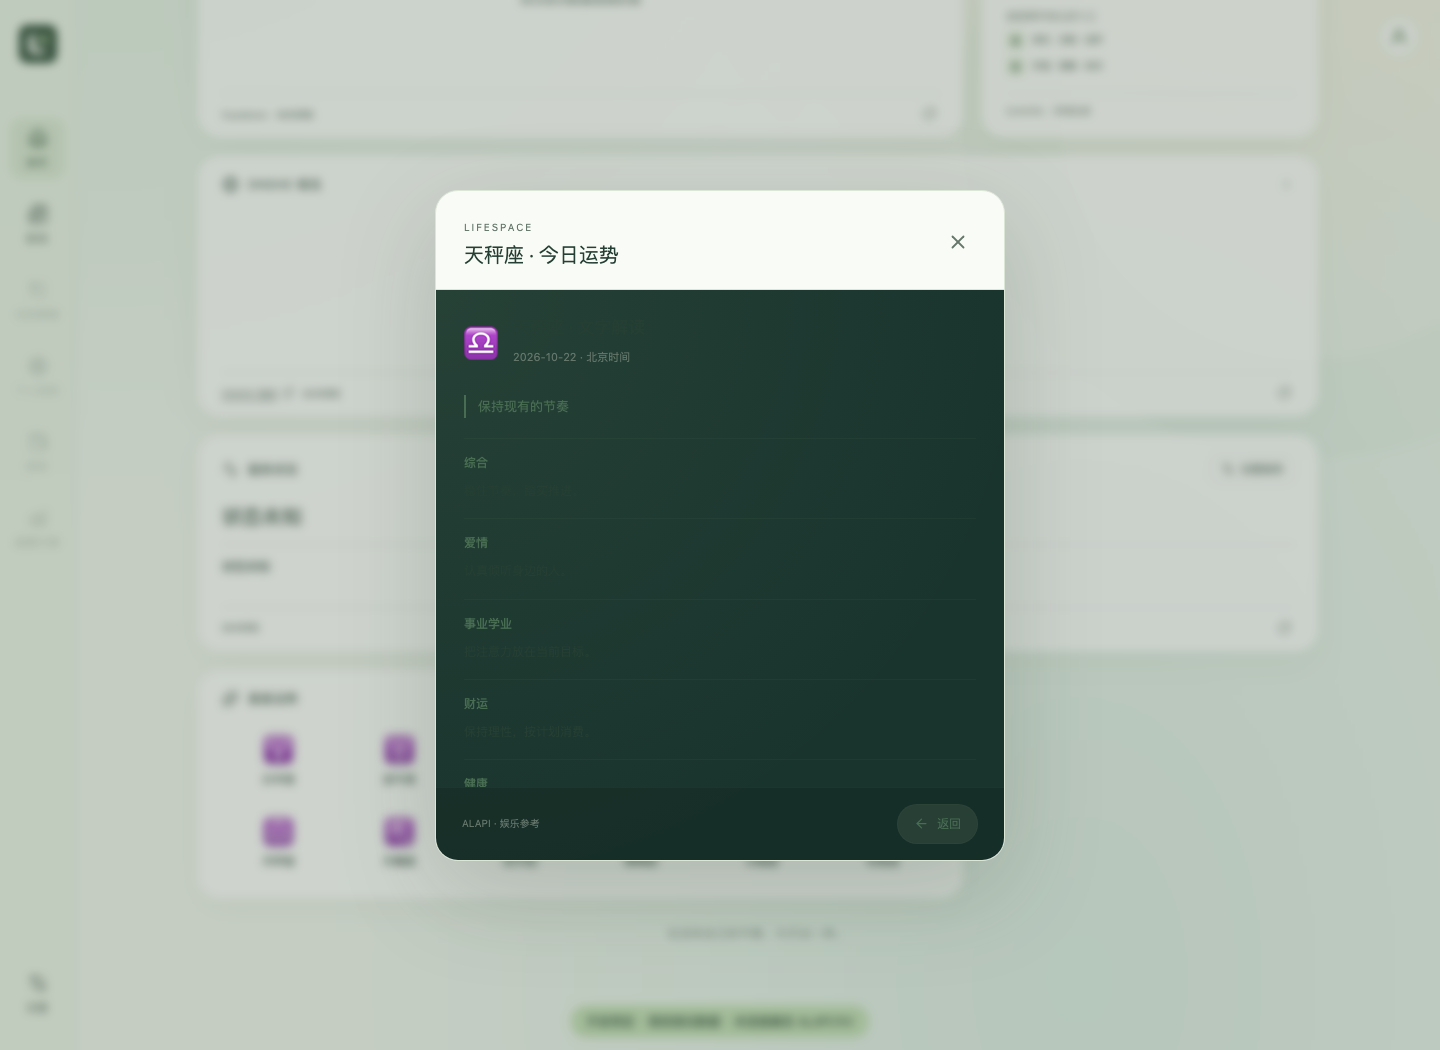
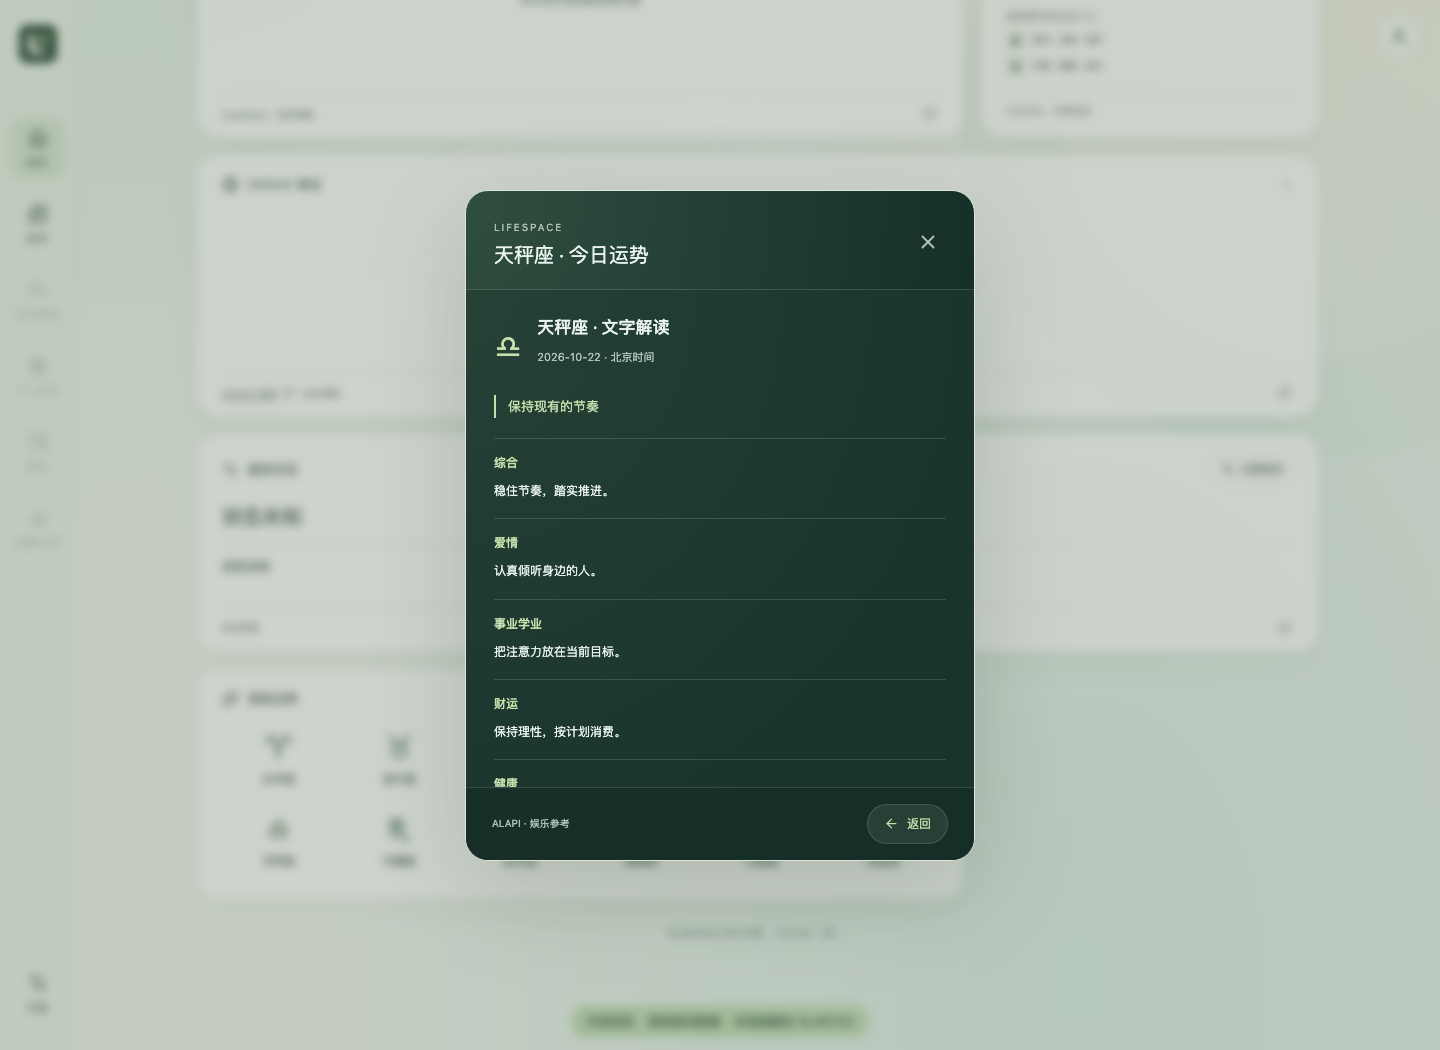
fix: harden horoscope request isolation and mobile layout

Changed region(s): [[0.25, 0.1829, 0.7188, 0.8229], [0.1562, 0.7619, 0.2188, 0.8229], [0.1562, 0.701, 0.2188, 0.7314]]

diff --git a/worker/horoscope.ts b/worker/horoscope.ts
@@ -5,8 +5,9 @@ import { BodyLimitError, readBoundedBody } from './read-body'
 
 // 仅包含外部 binding 的必要操作；缺失配置时保持正式服务的未配置状态。
 export type HoroscopeEnv = { ALAPI_TOKEN?: string; HOROSCOPE_KV?: Pick<KVNamespace, 'get' | 'put'> }
-type State = { pending: Map<string, Promise<HoroscopeResult>>; nextRead: number; blocked?: { until: number; error: ApiError } }
-// 实例内的有限合并与退避不承担跨实例锁的职责，不保存账户或凭据。
+type Flight = { until: number; result?: HoroscopeResult; error?: { code: string; message: string; status: ApiError['status'] } }
+type State = { pending: Map<string, Flight>; nextRead: number; blocked?: { until: number; error: ApiError } }
+// 只共享普通数据与时间标记，不跨请求保存 Promise、Response、流、账户或凭据。
 const states = new WeakMap<object, State>()
 const failure = (code: string, message: string, status: 429 | 502 | 503 | 504 = 502) => new ApiError(code, message, status)
 const notUpdated = () => failure('HOROSCOPE_NOT_UPDATED', '今日运势暂未更新', 503)
@@ -35,7 +36,9 @@ async function readAlapi(token: string, sign: ZodiacSign, date: string): Promise
     const value = envelope.data
     if (!value.success || value.code !== 200) {
       if (value.code === 10010) throw failure('HOROSCOPE_QUOTA_EXHAUSTED', '今日运势接口额度已用完，请明日再试', 503)
-      if ([10001, 10002, 10003].includes(value.code)) throw failure('HOROSCOPE_TOKEN_INVALID', '运势数据源授权失效，请检查服务端配置')
+      if ([10001, 10002, 10003, 10004, 10008, 10009].includes(value.code)) throw failure('HOROSCOPE_TOKEN_INVALID', '运势数据源授权失效，请检查服务端配置')
+      if ([10006, 10007].includes(value.code)) throw failure('HOROSCOPE_ACCESS_DENIED', '运势数据源访问受限，请检查服务端配置')
+      if (value.code === 10005) throw failure('HOROSCOPE_QUOTA_UNAVAILABLE', '运势数据源额度不足，请稍后再试', 503)
       if (value.code === 429) throw failure('HOROSCOPE_RATE_LIMITED', '运势读取过于频繁，请稍后重新读取', 429)
       throw failure('HOROSCOPE_BUSINESS_ERROR', '运势数据源请求失败，请稍后重新读取')
     }
@@ -73,10 +76,20 @@ export async function readHoroscope(env: HoroscopeEnv, params: URLSearchParams):
   const key = `horoscope:v1:alapi:Asia-Shanghai:${date}:${sign}`
   let state = states.get(kv)
   if (!state) { state = { pending: new Map(), nextRead: 0 }; states.set(kv, state) }
+  for (const [pendingKey, flight] of state.pending) if (flight.until <= Date.now()) state.pending.delete(pendingKey)
   const existing = state.pending.get(key)
-  if (existing) return existing
+  if (existing) {
+    // 等待属于当前请求；首请求取消或耗时较长时有限退出，由使用者重新读取。
+    await new Promise<void>(resolve => setTimeout(resolve, 1100))
+    if (beijingDate(Date.now()) !== date) throw notUpdated()
+    if (existing.result && isCurrentHoroscope(existing.result, sign, Date.now())) return existing.result
+    if (existing.error) throw new ApiError(existing.error.code, existing.error.message, existing.error.status)
+    throw failure('HOROSCOPE_RATE_LIMITED', '运势正在读取，请稍后重新读取', 429)
+  }
   const currentState = state
-  const pending = (async (): Promise<HoroscopeResult> => {
+  const flight: Flight = { until: Date.now() + 12000 }
+  currentState.pending.set(key, flight)
+  const read = async (): Promise<HoroscopeResult> => {
     let cached: unknown
     try {
       const stored = await kv.get(key)
@@ -106,7 +119,13 @@ export async function readHoroscope(env: HoroscopeEnv, params: URLSearchParams):
     }
     if (!isCurrentHoroscope(data, sign, Date.now())) throw notUpdated()
     return { ...data, cacheHit: false, ...(warning ? { warning } : {}) }
-  })()
-  currentState.pending.set(key, pending)
-  try { return await pending } finally { currentState.pending.delete(key) }
+  }
+  try {
+    const result = await read()
+    flight.result = result
+    return result
+  } catch (error) {
+    if (error instanceof ApiError) flight.error = { code: error.code, message: error.message, status: error.status }
+    throw error
+  } finally { if (currentState.pending.get(key) === flight) currentState.pending.delete(key) }
 }

diff --git a/tests/api/horoscope.test.ts b/tests/api/horoscope.test.ts
@@ -97,6 +97,13 @@ test.each([
   ['HTTP 限流', () => new Response('private', { status: 429 }), 'HOROSCOPE_RATE_LIMITED', 429],
   ['每日耗尽', () => Response.json({ success: false, code: 10010, message: 'private' }), 'HOROSCOPE_QUOTA_EXHAUSTED', 503],
   ['业务鉴权', () => Response.json({ success: false, code: 10001, message: 'private' }), 'HOROSCOPE_TOKEN_INVALID', 502],
+  ['业务错误 10002', () => Response.json({ success: false, code: 10002, message: 'private' }), 'HOROSCOPE_TOKEN_INVALID', 502],
+  ['业务错误 10004', () => Response.json({ success: false, code: 10004, message: 'private' }), 'HOROSCOPE_TOKEN_INVALID', 502],
+  ['业务错误 10008', () => Response.json({ success: false, code: 10008, message: 'private' }), 'HOROSCOPE_TOKEN_INVALID', 502],
+  ['业务错误 10009', () => Response.json({ success: false, code: 10009, message: 'private' }), 'HOROSCOPE_TOKEN_INVALID', 502],
+  ['业务错误 10006', () => Response.json({ success: false, code: 10006, message: 'private' }), 'HOROSCOPE_ACCESS_DENIED', 502],
+  ['业务错误 10007', () => Response.json({ success: false, code: 10007, message: 'private' }), 'HOROSCOPE_ACCESS_DENIED', 502],
+  ['业务错误 10005', () => Response.json({ success: false, code: 10005, message: 'private' }), 'HOROSCOPE_QUOTA_UNAVAILABLE', 503],
   ['HTTP 200 业务失败', () => Response.json({ success: false, code: 12345, message: 'private' }), 'HOROSCOPE_BUSINESS_ERROR', 502],
   ['超时', () => { throw new DOMException('private', 'TimeoutError') }, 'HOROSCOPE_TIMEOUT', 504],
   ['空内容', () => Response.json({ success: true, code: 200, data: { day: { date: '2026-10-22' } } }), 'HOROSCOPE_INVALID_RESPONSE', 502],
@@ -187,6 +194,7 @@ test('同实例在途读取合并，跨实例负缓存允许少量重复且同 k
   await vi.waitFor(() => expect(upstreamCalls).toBe(1))
   release()
   expect((await first).status).toBe(200)
+  await vi.advanceTimersByTimeAsync(1100)
   expect((await second).status).toBe(200)
   expect(upstreamCalls).toBe(1)
   let writes = 0
@@ -194,4 +202,30 @@ test('同实例在途读取合并，跨实例负缓存允许少量重复且同 k
   const other = await Promise.all([request(namespace()), request(namespace())])
   expect(other.map(response => response.status)).toEqual([200, 200])
   expect(upstreamCalls).toBe(3)
+})
+
+test('首请求尚未完成时，合并等待有界退出，不借用其 I/O Promise', async () => {
+  const { default: raw } = await import('../../worker/index')
+  const { horoscopeTestToken, horoscopeTestUser } = await import('../fixtures/horoscope-worker')
+  const s = setup()
+  let calls = 0
+  let release: () => void = () => {}
+  const gate = new Promise<void>(resolve => { release = resolve })
+  vi.stubGlobal('fetch', async (input: string | URL | Request) => {
+    if (String(input).includes('/auth/v1/user')) return Response.json(horoscopeTestUser)
+    calls++; await gate
+    return Response.json(alapiSuccess())
+  })
+  const env = { ...s.env, SUPABASE_URL: 'https://auth-test.supabase.co', SUPABASE_PUBLISHABLE_KEY: 'sb_publishable_test-only', AUTH_ALLOWED_EMAILS: horoscopeTestUser.email }
+  const request = () => raw.request('/api/horoscope?sign=libra', { headers: { Authorization: `Bearer ${horoscopeTestToken}` } }, env)
+  const first = request()
+  await vi.waitFor(() => expect(calls).toBe(1))
+  const next = request()
+  await vi.advanceTimersByTimeAsync(1100)
+  const busy = await next
+  expect(busy.status).toBe(429)
+  expect(await busy.json()).toMatchObject({ error: { code: 'HOROSCOPE_RATE_LIMITED' } })
+  expect(calls).toBe(1)
+  release()
+  expect((await first).status).toBe(200)
 })

diff --git a/src/home/horoscope.css b/src/home/horoscope.css
@@ -4,8 +4,9 @@
 .zodiac-grid button>span{font-family:'Apple Symbols','Segoe UI Symbol',serif;font-size:29px;color:var(--accent);line-height:1}
 .zodiac-grid button:hover,.zodiac-grid button:focus-visible{background:rgba(196,214,178,.09);border-color:var(--line)}
 .lifespace-app .modal.horoscope-modal{--ink:#eaf3ee;--quiet:#b2c4ba;--accent:#c5dfad;--line:rgba(216,239,223,.16);color:var(--ink);width:min(510px,calc(100vw - 28px));padding:0;overflow:hidden;background:radial-gradient(ellipse at 0 0,#304e40,transparent 75%),#142e28}
-.horoscope-modal>header{padding:22px 26px;border-bottom:1px solid var(--line);margin:0}
-.fortune-stage{perspective:1300px;height:min(570px,calc(100dvh - 160px));min-height:260px}
+.horoscope-modal[open]{display:flex;flex-direction:column}
+.horoscope-modal>header{flex-shrink:0;padding:22px 26px;border-bottom:1px solid var(--line);margin:0}
+.fortune-stage{perspective:1300px;height:min(570px,calc(100dvh - 160px));min-height:0;flex-shrink:1}
 .fortune-turn{height:100%;position:relative;transform-style:preserve-3d;transition:transform .55s cubic-bezier(.22,.7,.3,1)}
 .fortune-stage.is-back .fortune-turn{transform:rotateY(180deg)}
 .fortune-face{position:absolute;inset:0;display:flex;flex-direction:column;backface-visibility:hidden;background:radial-gradient(ellipse at 0 0,rgba(192,217,160,.08),transparent 75%),#19342d}
@@ -40,6 +41,7 @@
 .fortune-text p,.fortune-almanac p{font-size:12px;line-height:1.95;margin:0;white-space:pre-wrap}
 .fortune-almanac{margin-top:20px;padding-top:15px;border-top:1px solid var(--line)}
 .fortune-almanac b{color:var(--accent);font-weight:500;padding-right:14px}
-.horoscope-state{min-height:280px;display:flex;flex-direction:column;align-items:center;justify-content:center;gap:16px;padding:25px;font-size:13px;color:var(--quiet)}
-@media(max-width:680px){.panel-horoscope{grid-column:1/-1}.zodiac-grid{grid-template-columns:repeat(4,minmax(0,1fr))}.fortune-scroll{padding:22px}.fortune-footer{padding:14px 20px}.fortune-scores{gap:12px}.horoscope-modal>header{padding:18px 22px}}
+.horoscope-state{height:min(280px,calc(100dvh - 160px));min-height:0;overflow-y:auto;flex-shrink:1;display:flex;flex-direction:column;align-items:center;justify-content:center;gap:16px;padding:25px;font-size:13px;color:var(--quiet)}
+@media(max-width:680px){.panel-horoscope{grid-column:1/-1}.zodiac-grid{grid-template-columns:repeat(4,minmax(0,1fr))}.fortune-scroll{padding:22px}.fortune-footer{padding:14px 20px}.fortune-scores{gap:12px}.horoscope-modal[open]{display:flex;flex-direction:column}
+.horoscope-modal>header{flex-shrink:0;padding:18px 22px}}
 @media(prefers-reduced-motion:reduce){.fortune-turn,.fortune-stage.is-back .fortune-turn{transform:none;transition:none}.fortune-back{transform:none}.fortune-face[aria-hidden=true]{visibility:hidden}.zodiac-grid button{transition:none}}

diff --git a/tests/browser/horoscope.test.ts b/tests/browser/horoscope.test.ts
@@ -125,3 +125,22 @@ test('关闭后新星座从正面开始，迟到响应不会覆盖当前选择',
   await page.getByRole('button', { name: '狮子座', exact: true }).click()
   await expect(page.getByRole('button', { name: '查看详情', exact: true })).toBeVisible()
 })
+
+test('横屏短手机窗口的关闭与返回按钮完整可达', async ({ page }) => {
+  await page.clock.install({ time: new Date('2026-10-22T08:00:00Z') })
+  await page.setViewportSize({ width: 667, height: 320 })
+  await page.emulateMedia({ reducedMotion: 'reduce' })
+  await page.route('**/api/horoscope?*', route => route.fulfill({ json: result('libra', '2026-10-22', true) }))
+  await page.goto('/')
+  await page.getByRole('button', { name: '天秤座', exact: true }).click()
+  const frontBounds = await page.getByRole('button', { name: '查看详情', exact: true }).boundingBox()
+  const beforeBounds = await page.getByRole('dialog').boundingBox()
+  expect(frontBounds!.y + frontBounds!.height).toBeLessThanOrEqual(beforeBounds!.y + beforeBounds!.height)
+  await page.getByRole('button', { name: '查看详情', exact: true }).click()
+  const dialog = await page.getByRole('dialog').boundingBox()
+  const back = await page.getByRole('button', { name: '返回', exact: true }).boundingBox()
+  expect(back!.y + back!.height).toBeLessThanOrEqual(dialog!.y + dialog!.height)
+  await expect(page.getByRole('button', { name: '关闭详情', exact: true })).toBeInViewport()
+  await page.getByRole('button', { name: '返回', exact: true }).click()
+  await expect(page.getByRole('button', { name: '查看详情', exact: true })).toBeInViewport()
+})

diff --git a/vite.horoscope-preview.config.ts b/vite.horoscope-preview.config.ts
@@ -23,7 +23,7 @@ export default defineConfig(async () => {
         })
       },
     }],
-    server: { host: '127.0.0.1', port: 5176, strictPort: true, proxy: { '/api/horoscope': worker.url, '/api/auth/': worker.url },
+    server: { watch: { usePolling: true }, host: '127.0.0.1', port: 5176, strictPort: true, proxy: { '/api/horoscope': worker.url, '/api/auth/': worker.url },
       fs: { deny: ['.env', '.env.*', '**/.dev.vars*', '**/.git/**', '**/.cache/**', '**/*.{pem,key}', '**/dist/lifespace/**'] } },
   }
 })

diff --git a/docs/horoscope-development.md b/docs/horoscope-development.md
@@ -9,7 +9,7 @@
 - `GET /api/horoscope?sign=libra` 先执行既有认证和白名单检查，只接受唯一合法 `sign` 参数。
 - ALAPI 成功内容标准化后按 `Asia/Shanghai` 日期与星座存入 KV，绝对期限为次日北京时间零点；不足 60 秒不写入。
 - 缓存、上游、浏览器都校验内容归属与日期。跨日清除旧展示；昨日内容显示“今日运势暂未更新”。
-- 缓存读取失败不回源；写入失败保留本次内容并进入 60 秒退避。实例内合并在途请求、回源间隔至少 1.1 秒；一般上游失败退避 10 秒，日额度耗尽保守退避至下一个北京日期。不承诺跨实例严格限流或仅回源一次。
+- 缓存读取失败不回源；写入失败保留本次内容并进入 60 秒退避。实例内有限等待后复用已完成的普通数据，首请求未完成则返回忙碌状态，不共享在途 I/O Promise；回源间隔至少 1.1 秒；一般上游失败退避 10 秒，日额度耗尽保守退避至下一个北京日期。不承诺跨实例严格限流或仅回源一次。
 - 正常卡片没有刷新按钮，失败状态可以“重新读取”；关闭恢复入口焦点，手机文字滚动，减少动态效果模式关闭旋转。
 
 ## 本地预览
@@ -29,6 +29,29 @@ npx vite --config vite.horoscope-preview.config.ts
 - 接口：`npx vitest run tests/api/horoscope.test.ts`；通过真实应用路由与鉴权，外部 Auth、ALAPI 和 KV 使用替身。
 - 浏览器：`npx playwright test tests/browser/horoscope.test.ts`；包含浏览器→本地 HTTP→真实 Worker 应用路由及鉴权→受控 ALAPI/KV 的链路，重载后核对第二次 KV 读取与一次上游调用。
 - 整体检查使用项目既有密钥扫描、API、安全、类型、构建及浏览器回归。截图见 `docs/evidence/horoscope-dev/`，仅为开发预览。
+
+## 核验结果
+
+2026-10-22，在 `codex/70-horoscope`、Node.js 24.19.0 下完成：
+
+| 检查 | 实际结果 |
+|---|---|
+| `npm run check:secrets` | 历史和当前 Git 文件扫描通过 |
+| `npm run test:secrets` | 1 条通过，验证提交钩子与历史密钥拦截 |
+| `npm run test:api` | 11 个文件、188 条通过，其中运势 34 条 |
+| `npm run test:security:portable` | 1 条通过，包含 5 项构建/运行时/日志/文件隔离检查 |
+| `npm run build` | 类型检查与生产构建通过 |
+| `npm run test:browser` | 144 条通过，其中运势 6 条 |
+
+隔离的 workerd/Miniflare 检查使用生产构建和本地 KV，核对首次回源、实际缓存内容、过期时间与再次命中鉴权；ALAPI 和 Auth 仍为外部替身。浏览器全量首次因脚本固定的本地 Chromium 路径缺失而未能启动；连接已有浏览器缓存后，单独重跑浏览器部分通过。其他已通过项目未重复执行。
+
+## Standards
+
+规范审查发现一项：跨请求共享在途 Promise 可能依赖首请求的 I/O 生命周期。已改为仅共享普通结果与时间标记，每个请求持有自己的有限等待；未完成时返回忙碌，避免跨请求复用 I/O。
+
+## Spec
+
+需求审查发现两项：部分 ALAPI 业务授权错误未分类、短横屏按钮可能裁切。已按官方错误表补齐授权/访问限制/额度类别，并用可收缩内容区保持操作区可达；均已加入回归。需求轴修复复核通过，未发现新增实质问题。
 
 ## 交付阶段前置条件
 
